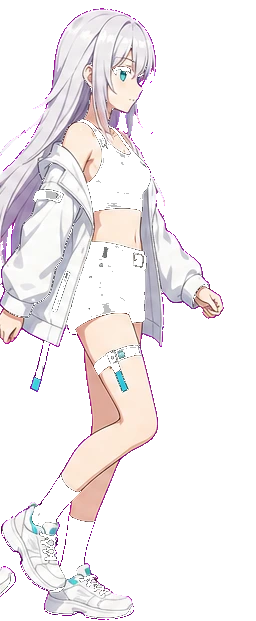
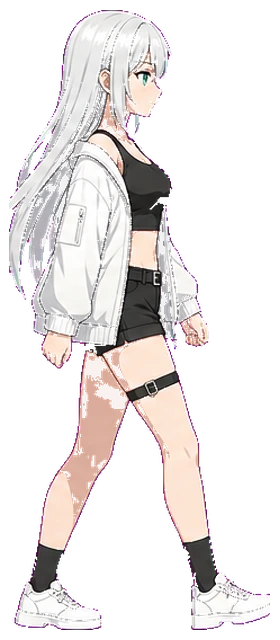
fix: restore walk cycle and keep agent shoes visible

diff --git a/frontend/web/src/components/AgentPresence.tsx b/frontend/web/src/components/AgentPresence.tsx
@@ -6,10 +6,9 @@ type AgentPresenceProps = {
 
 type WalkMode = "idle" | "walk";
 
-const BODY_WIDTH = 140;
+const BODY_WIDTH = 150;
 const EDGE_PAD = 8;
-/** Step length in px — drives bob phase so gait stays stable without morphing frames */
-const STEP_PX = 28;
+const WALK_FRAMES = 6;
 
 function randomBetween(min: number, max: number) {
   return min + Math.random() * (max - min);
@@ -19,9 +18,9 @@ export function AgentPresence({ busy = false }: AgentPresenceProps) {
   const stageRef = useRef<HTMLElement | null>(null);
   const xRef = useRef(24);
   const [x, setX] = useState(24);
-  const [bob, setBob] = useState(0);
   const [facing, setFacing] = useState<1 | -1>(1);
   const [mode, setMode] = useState<WalkMode>("idle");
+  const [frame, setFrame] = useState(0);
   const targetRef = useRef(24);
   const modeRef = useRef<WalkMode>("idle");
   const busyRef = useRef(busy);
@@ -29,6 +28,14 @@ export function AgentPresence({ busy = false }: AgentPresenceProps) {
   const rafRef = useRef<number | null>(null);
 
   busyRef.current = busy;
+
+  useEffect(() => {
+    // Preload walk frames so swaps don't flash empty
+    for (let i = 0; i < WALK_FRAMES; i += 1) {
+      const img = new Image();
+      img.src = `/brand/agent-walk-${i}.webp`;
+    }
+  }, []);
 
   useEffect(() => {
     const stage = stageRef.current;
@@ -54,34 +61,31 @@ export function AgentPresence({ busy = false }: AgentPresenceProps) {
       clearTimer();
       modeRef.current = "idle";
       setMode("idle");
-      setBob(0);
-      const pause = busyRef.current ? randomBetween(350, 800) : randomBetween(1400, 3800);
+      setFrame(0);
+      const pause = busyRef.current ? randomBetween(400, 900) : randomBetween(1400, 3600);
       timerRef.current = window.setTimeout(() => {
         startWalkTo(randomBetween(EDGE_PAD, maxX()));
       }, pause);
     };
 
-    xRef.current = Math.min(Math.max(EDGE_PAD, stage.clientWidth * 0.12), maxX());
+    xRef.current = Math.min(Math.max(EDGE_PAD, stage.clientWidth * 0.1), maxX());
     setX(xRef.current);
     targetRef.current = xRef.current;
 
     const tick = () => {
-      const speed = busyRef.current ? 88 : 50;
+      const speed = busyRef.current ? 86 : 48;
       if (modeRef.current === "walk") {
         const target = targetRef.current;
         const delta = target - xRef.current;
         if (Math.abs(delta) <= 1.2) {
           xRef.current = target;
           setX(xRef.current);
-          setBob(0);
           scheduleIdle();
         } else {
           const step = Math.sign(delta) * Math.min(Math.abs(delta), speed / 60);
           xRef.current += step;
           setFacing(step >= 0 ? 1 : -1);
           setX(xRef.current);
-          // Stable gait bob from distance — same sprite, no frame morph
-          setBob(Math.abs(Math.sin((xRef.current / STEP_PX) * Math.PI)) * (busyRef.current ? 7 : 5));
         }
       }
       rafRef.current = window.requestAnimationFrame(tick);
@@ -117,6 +121,20 @@ export function AgentPresence({ busy = false }: AgentPresenceProps) {
     setFacing(next >= xRef.current ? 1 : -1);
   }, [busy]);
 
+  useEffect(() => {
+    if (mode !== "walk") {
+      setFrame(0);
+      return;
+    }
+    const ms = busy ? 100 : 130;
+    const id = window.setInterval(() => {
+      setFrame((current) => (current + 1) % WALK_FRAMES);
+    }, ms);
+    return () => window.clearInterval(id);
+  }, [mode, busy]);
+
+  const src = mode === "walk" ? `/brand/agent-walk-${frame}.webp` : "/brand/agent-presence.webp";
+
   return (
     <aside
       ref={stageRef}
@@ -133,12 +151,12 @@ export function AgentPresence({ busy = false }: AgentPresenceProps) {
       <div
         className="agentPresenceMover"
         style={{
-          transform: `translate3d(${x}px, ${-bob}px, 0) scaleX(${facing})`,
+          transform: `translate3d(${x}px, 0, 0) scaleX(${facing})`,
         }}
       >
         <img
           className="agentPresenceBody"
-          src="/brand/agent-presence.webp"
+          src={src}
           alt=""
           draggable={false}
           decoding="async"

diff --git a/frontend/web/src/styles.css b/frontend/web/src/styles.css
@@ -133,11 +133,13 @@ input {
 .agentPresenceMover {
   position: absolute;
   left: 0;
-  bottom: 4px;
-  width: 140px;
-  height: 320px;
+  bottom: 0;
+  width: 150px;
+  /* match sprite canvas 280x640 — keep shoes inside the box */
+  height: 343px;
   transform-origin: center bottom;
   will-change: transform;
+  overflow: visible;
 }
 
 .agentPresenceBody {
